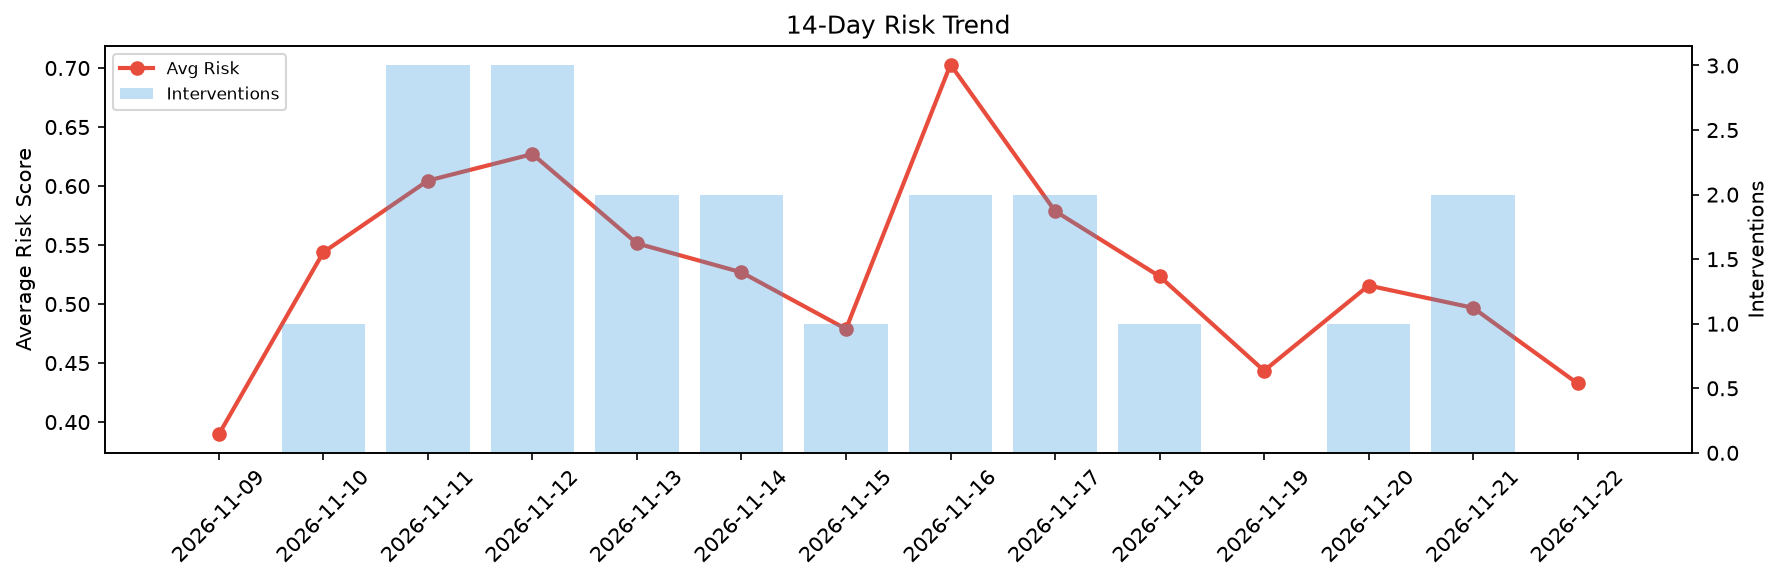
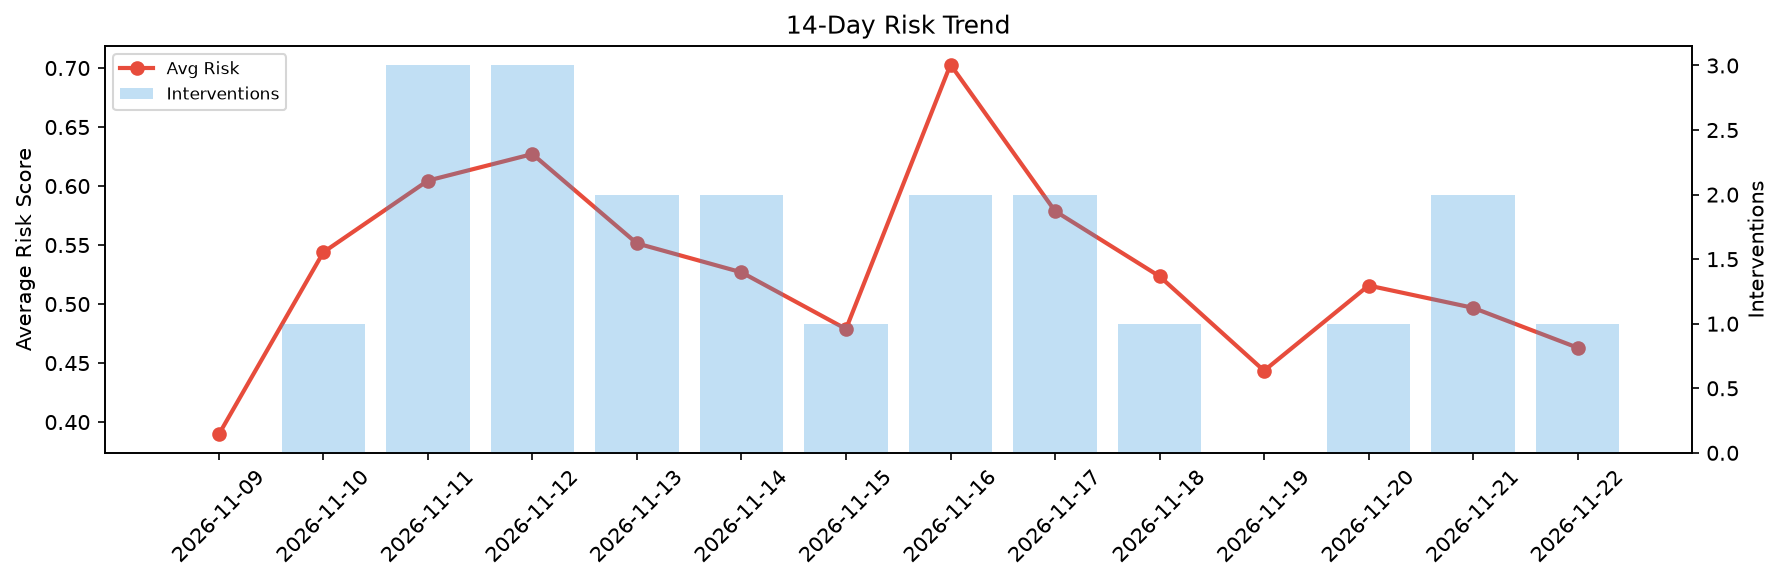
agent-improvement: daily cycle 2026-11-22T09:43

Changed region(s): [[0.8329, 0.5258, 0.9254, 0.8041]]

diff --git a/logs/2026-11-22.md b/logs/2026-11-22.md
@@ -1,6 +1,6 @@
 # Agent Improvement Report — 2026-11-22
 
-**Cycle ID:** `423046e8` | **Avg Risk:** 0.4327 | **Interventions:** 0/4
+**Cycle ID:** `c7017f8f` | **Avg Risk:** 0.463 | **Interventions:** 1/4
 
 ![Dashboard](2026-11-22_dashboard.png)
 
@@ -10,18 +10,18 @@
 
 | Domain | Risk Score | Decision | Alerts |
 |--------|-----------|----------|--------|
-| code_review | 0.3924 | monitor | none |
-| incident_response | 0.572 | monitor | blast_radius |
-| data_pipeline | 0.3942 | monitor | none |
-| deployment | 0.3723 | monitor | none |
+| code_review | 0.6572 | intervene | complexity |
+| incident_response | 0.5211 | monitor | severity |
+| data_pipeline | 0.2614 | monitor | none |
+| deployment | 0.4124 | monitor | none |
 
 ## Delta vs Yesterday
 
 | Domain | Today | Yesterday | Change |
 |--------|-------|-----------|--------|
-| code_review | 0.3924 | 0.6677 | 📉 -41.2% |
-| incident_response | 0.572 | 0.6365 | 📉 -10.1% |
-| data_pipeline | 0.3942 | 0.3733 | 📈 5.6% |
-| deployment | 0.3723 | 0.3096 | 📈 20.3% |
+| code_review | 0.6572 | 0.6677 | 📉 -1.6% |
+| incident_response | 0.5211 | 0.6365 | 📉 -18.1% |
+| data_pipeline | 0.2614 | 0.3733 | 📉 -30.0% |
+| deployment | 0.4124 | 0.3096 | 📈 33.2% |
 
 **Refinement:** `{'adjustment': 'maintain', 'trend': 'improving', 'window': 4}`
